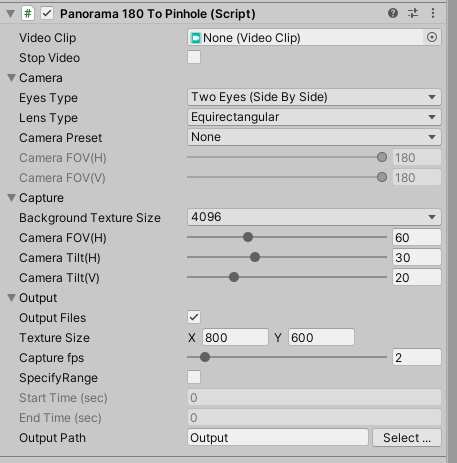
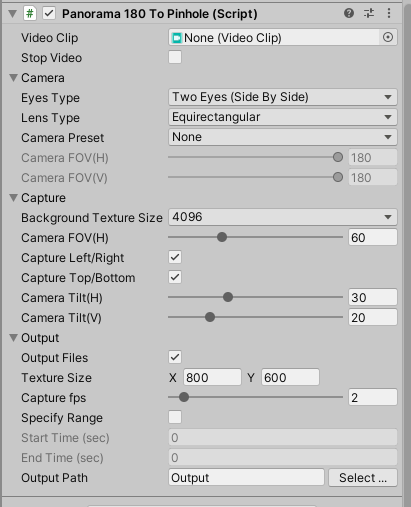
Update readme, ChangeLog

Changed region(s): [[0.0, 0.0, 1.0, 1.0]]

diff --git a/readme.md b/readme.md
@@ -110,8 +110,14 @@ Panorama180ToPinholeコンポーネントのパラメータの説明です。
 |---|---|     
 |Background Texture Size|半球に投影する背景のテクスチャサイズを指定|     
 |Camera FOV(H)|Pinhole画像を作成するカメラの垂直視野角度（度数）|     
+|Capture Left/Right|左右に向いた画像をキャプチャ。デフォルトOn。|     
+|Capture Top/Bottom|上下に向いた画像をキャプチャ。デフォルトOn。|     
 |Camera Tilt(H)|カメラの視線方向からの水平の向きのずれ（度数）<br>![panoramaToPinhole_09.png](./images/panoramaToPinhole_09.png)<br>左右のカメラである"camera_1"、"camera_2"はY軸中心で指定の角度分傾きます。|     
 |Camera Tilt(V)|カメラの視線方向からの垂直の向きのずれ（度数）<br>上下のカメラである"camera_3"、"camera_4"はX軸中心で指定の角度分傾きます。|     
+
+"Capture Left/Right"チェックボックスをOnにすることで、"Camera Tilt(H)"の向きだけ水平方向に傾けた画像を出力します。     
+"Capture Top/Bottom"チェックボックスをOnにすることで、"Camera Tilt(V)"の向きだけ垂直方向に傾けた画像を出力します。     
+もし、1フレーム出力するときに正面だけを出力したい場合は、"Capture Left/Right"と"Capture Top/Bottom"チェックボックスをOffにするようにしてください。      
 
 ### Output
 

diff --git a/ChangeLog.md b/ChangeLog.md
@@ -1,5 +1,10 @@
 # 更新履歴
 
+## Oct 15, 2023
+
+* "Capture Left/Right", "Capture Top/Bottom"オプションを追加。     
+左右のキャプチャ(2枚)、上下向きのキャプチャ(2枚)、を出力するかどうかを指定できるようになりました。     
+
 ## Sep 30, 2023
 
 * GoProで広角の場合のプリセット指定。水平/垂直方向の視野角度の変更に対応。
